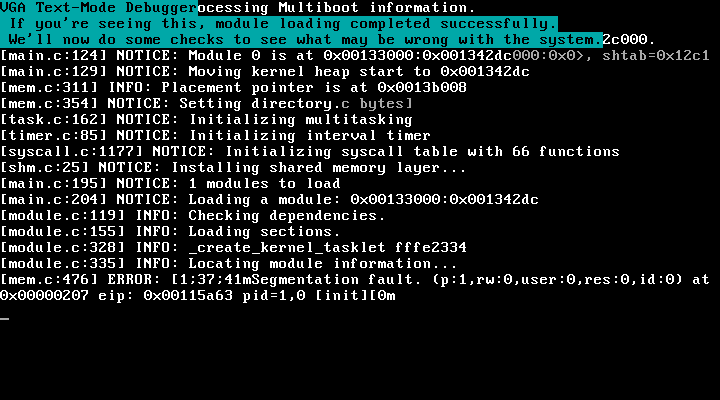
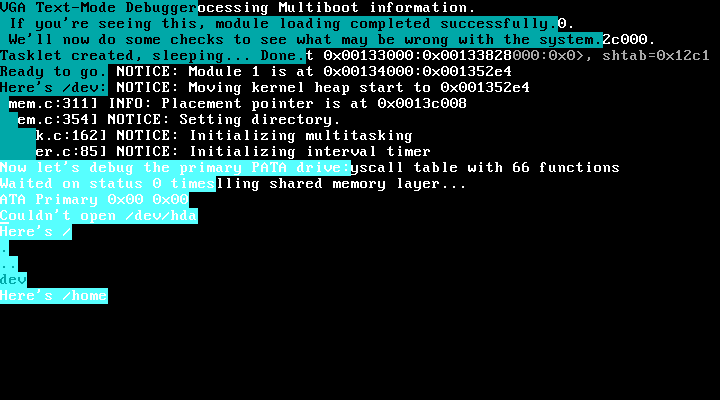
Fix Addend value in case of R_386_PC32

Changed region(s): [[0.0, 0.12, 0.8556, 0.78], [0.6111, 0.69, 1.0, 0.72], [0.7639, 0.03, 0.7944, 0.06]]

diff --git a/kernel/sys/process.c b/kernel/sys/process.c
@@ -379,10 +379,10 @@ process_t * spawn_process(volatile process_t * parent, int reuse_fds) {
 	assert(process_tree->root && "Attempted to spawn a process without init.");
 
 	/* Allocate a new process */
-	debug_print(INFO,"   process_t {");
+//	debug_print(INFO,"   process_t {");
 	process_t * proc = malloc(sizeof(process_t));
 	memset(proc, 0, sizeof(process_t));
-	debug_print(INFO,"   }");
+//	debug_print(INFO,"   }");
 	proc->id = get_next_pid(); /* Set its PID */
 	proc->group = proc->id;    /* Set the GID */
 	proc->name = strdup(parent->name); /* Use the default name */
@@ -410,9 +410,9 @@ process_t * spawn_process(volatile process_t * parent, int reuse_fds) {
 	proc->image.heap        = parent->image.heap;
 	proc->image.heap_actual = parent->image.heap_actual;
 	proc->image.size        = parent->image.size;
-	debug_print(INFO,"    stack {");
+//	debug_print(INFO,"    stack {");
 	proc->image.stack       = (uintptr_t)kvmalloc(KERNEL_STACK_SIZE) + KERNEL_STACK_SIZE;
-	debug_print(INFO,"    }");
+//	debug_print(INFO,"    }");
 	proc->image.user_stack  = parent->image.user_stack;
 	proc->image.shm_heap    = SHM_START; /* Yeah, a bit of a hack. */
 
@@ -429,18 +429,18 @@ process_t * spawn_process(volatile process_t * parent, int reuse_fds) {
 		proc->fds->refs     = 1;
 		proc->fds->length   = parent->fds->length;
 		proc->fds->capacity = parent->fds->capacity;
-		debug_print(INFO,"    fds / files {");
+//		debug_print(INFO,"    fds / files {");
 		proc->fds->entries  = malloc(sizeof(fs_node_t *) * proc->fds->capacity);
 		proc->fds->modes    = malloc(sizeof(int) * proc->fds->capacity);
 		proc->fds->offsets  = malloc(sizeof(uint64_t) * proc->fds->capacity);
 		assert(proc->fds->entries && "Failed to allocate file descriptor table for new process.");
-		debug_print(INFO,"    ---");
+//		debug_print(INFO,"    ---");
 		for (uint32_t i = 0; i < parent->fds->length; ++i) {
 			proc->fds->entries[i] = clone_fs(parent->fds->entries[i]);
 			proc->fds->modes[i]   = parent->fds->modes[i];
 			proc->fds->offsets[i] = parent->fds->offsets[i];
 		}
-		debug_print(INFO,"    }");
+//		debug_print(INFO,"    }");
 	}
 
 	/* As well as the working directory */

diff --git a/kernel/sys/module.c b/kernel/sys/module.c
@@ -248,6 +248,7 @@ char name2[128];
 					}
 					if (s) {
 						uintptr_t final = s->sh_addr + table->st_value;
+  //                  debug_print(INFO, "LOCAL %s %x" ,name, final);
 						hashmap_set(local_symbols, name, (void *)final);
 					}
 				}
@@ -312,6 +313,10 @@ nm=name;
                             symbol = (uintptr_t)hashmap_get(symboltable, name);
                         }
                     }
+                     if(ELF32_R_TYPE(table->r_info)==2)
+                     {
+                            addend = -4;
+                     }
                     switch (ELF32_R_TYPE(table->r_info))
                     {
                         case 1:
@@ -324,8 +329,8 @@ nm=name;
                             debug_print(ERROR, "Unsupported relocation type: %d", ELF32_R_TYPE(table->r_info));
                             goto mod_load_error;
                     }
- if(strcmp(nm,"_create_kernel_tasklet")==0)
-          debug_print(INFO, "%s %x", nm, *ptr);
+// if(strcmp(nm,"_malloc")==0)
+//          debug_print(INFO, "%s %x %x %x", nm, symbol, place, *ptr);
                     table++;
                 }
             }
@@ -358,7 +363,6 @@ nm=name;
     hashmap_free(local_symbols);
     free(local_symbols);
     */
-
     module_data_t * mod_data = malloc(sizeof(module_data_t));
     mod_data->mod_info = mod_info;
     mod_data->bin_data = target;

diff --git a/kernel/sys/task.c b/kernel/sys/task.c
@@ -233,8 +233,8 @@ uint32_t fork(void) {
 }
 
 int create_kernel_tasklet(tasklet_t tasklet, char * name, void * argp) {
-//	IRQ_OFF;
-/*
+	IRQ_OFF;
+
 	uintptr_t esp, ebp;
 
 	if (current_process->syscall_registers) {
@@ -249,7 +249,7 @@ int create_kernel_tasklet(tasklet_t tasklet, char * name, void * argp) {
 	set_process_environment(new_proc, directory);
 	directory->ref_count++;
 	// Read the instruction pointer  
-
+	
 
 	if (current_process->syscall_registers) {
 		struct regs r;
@@ -274,16 +274,16 @@ int create_kernel_tasklet(tasklet_t tasklet, char * name, void * argp) {
 	new_proc->thread.ebp = ebp;
 
 	new_proc->thread.eip = (uintptr_t)tasklet;
-
+	
 	// Add the new process to the ready queue
 	make_process_ready(new_proc);
-*/
-//	IRQ_RES;
+
+	IRQ_RES;
 //debug_print(INFO, "TASKLET %s",name);
-monitor_write("MESSAGE FROM create_kernel_tasklet\n");
+monitor_write("create_kernel_tasklet\n");
 
 	// Return the child PID  
-	return 0;//new_proc->id;
+	return new_proc->id;
 
 }
 

diff --git a/kernel/main.c b/kernel/main.c
@@ -188,7 +188,7 @@ int kmain(struct multiboot *mboot, uint32_t mboot_mag, uintptr_t esp) {
 	modules_install();  // Modules!  
 	pci_remap();
 
-//	DISABLE_EARLY_BOOT_LOG();
+	DISABLE_EARLY_BOOT_LOG();
  
 	// Load modules from bootloader  
 	if (mboot_ptr->flags & MULTIBOOT_FLAG_MODS) {
@@ -229,7 +229,6 @@ int kmain(struct multiboot *mboot, uint32_t mboot_mag, uintptr_t esp) {
 			}
 		}
 	}
-/*
 	// Map /dev to a device mapper 
 	map_vfs_directory("/dev");
 
@@ -259,7 +258,7 @@ int kmain(struct multiboot *mboot, uint32_t mboot_mag, uintptr_t esp) {
 	if (args_present("init")) {
 		boot_app = args_value("init");
 	}
- 
+
 	//Prepare to run /bin/init  
 	char * argv[] = {
 		boot_app,
@@ -275,8 +274,8 @@ int kmain(struct multiboot *mboot, uint32_t mboot_mag, uintptr_t esp) {
 
 	debug_print(CRITICAL, "init failed");
 	switch_task(0);
- */
-while(1);
+
+
 	return 0;
 }
 

diff --git a/modules/zero.c b/modules/zero.c
@@ -28,7 +28,7 @@ static void close_null(fs_node_t * node) {
 }
 
 static uint32_t read_zero(fs_node_t *node, uint64_t offset, uint32_t size, uint8_t *buffer) {
-	memset(buffer, 0x00, size);
+//	memset(buffer, 0x00, size);
 	return 1;
 }
 
@@ -46,7 +46,7 @@ static void close_zero(fs_node_t * node) {
 
 static fs_node_t * null_device_create(void) {
 	fs_node_t * fnode = malloc(sizeof(fs_node_t));
-	memset(fnode, 0x00, sizeof(fs_node_t));
+//	memset(fnode, 0x00, sizeof(fs_node_t));
 	fnode->inode = 0;
 	strcpy(fnode->name, "null");
 	fnode->uid = 0;
@@ -65,7 +65,7 @@ static fs_node_t * null_device_create(void) {
 
 static fs_node_t * zero_device_create(void) {
 	fs_node_t * fnode = malloc(sizeof(fs_node_t));
-	memset(fnode, 0x00, sizeof(fs_node_t));
+//	memset(fnode, 0x00, sizeof(fs_node_t));
 	fnode->inode = 0;
 	strcpy(fnode->name, "zero");
 	fnode->uid = 0;

diff --git a/kernel/fs/vfs.c b/kernel/fs/vfs.c
@@ -1080,7 +1080,7 @@ fs_node_t *kopen_recur(char *filename, uint32_t flags, uint32_t symlink_depth, c
  * @returns A file system node element that the caller can free.
  */
 fs_node_t *kopen(char *filename, uint32_t flags) {
-	debug_print(NOTICE, "kopen(%s)", filename);
+	debug_print(NOTICE, "kopen(%s) %s", filename,(char *)current_process->wd_name);
 
 	return kopen_recur(filename, flags, 0, (char *)(current_process->wd_name));
 }

diff --git a/kernel/cpu/irq.c b/kernel/cpu/irq.c
@@ -73,6 +73,7 @@ void int_resume(void) {
 	} else {
 		sync_depth--;
 	}
+	return;
 }
 
 void int_enable(void) {
@@ -181,7 +182,7 @@ void irq_handler(struct regs *r) {
 				goto done;
 			}
 		}
-		debug_print(ERROR, "acking irq %d - no other device handled it\n", r->int_no - 32);
+		debug_print(ERROR, "acking irq %d - no other device handled it", r->int_no - 32);
 		irq_ack(r->int_no - 32);
 	}
 done:

diff --git a/modules/vgadbg.c b/modules/vgadbg.c
@@ -54,8 +54,8 @@ static int write_string(char * s) {
 }
 
 static void reset(void) {
-	fg = 0x07;
-	bg = 0x10;
+	fg = 0x0f;
+	bg = 0x0e;
 }
 
 static void list_files(char * directory) {
